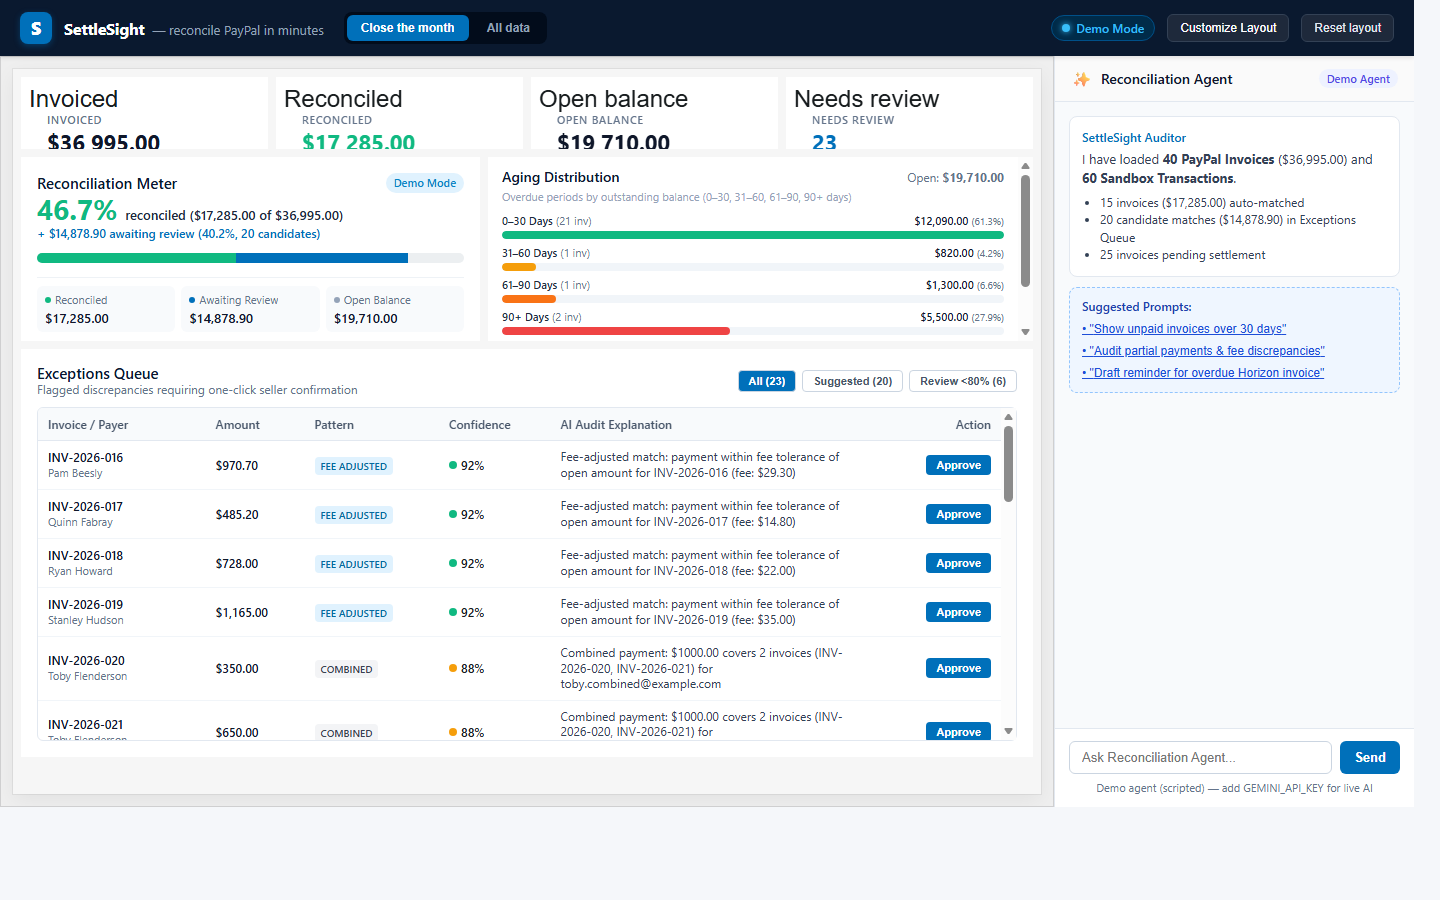
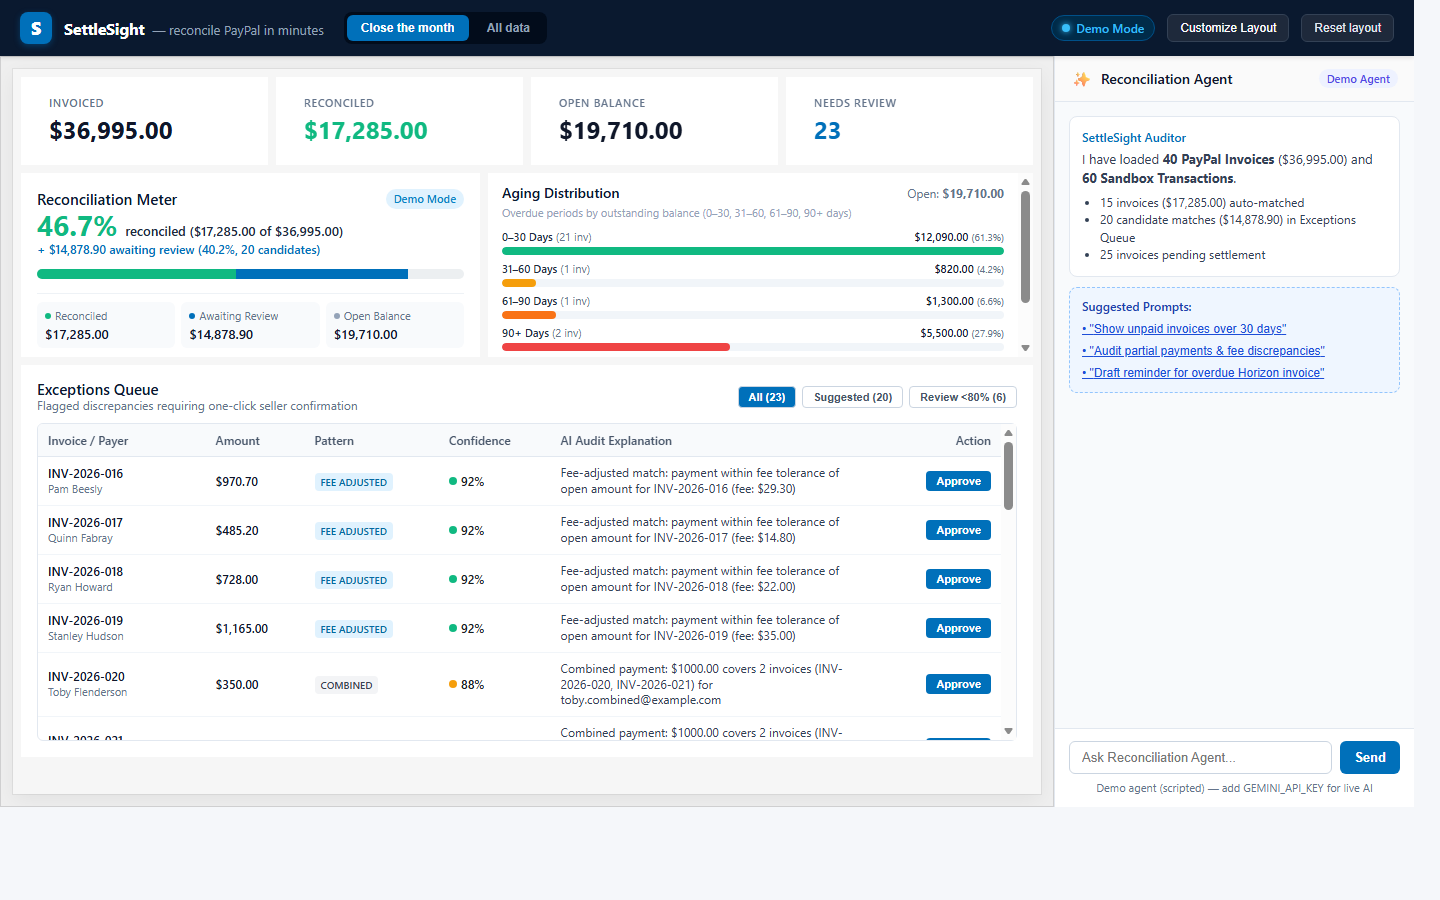
fix: KPI tile labels and overclaim wording

diff --git a/src/studio/dashboard.tsx b/src/studio/dashboard.tsx
@@ -98,6 +98,15 @@ export const StudioDashboard: React.FC<DashboardProps> = ({
         const cfg = KPI_CONFIGS[idx];
         if (!cfg) return;
 
+        // Hide any parent widget header (e.g. from AG Studio layout) to ensure only ONE label
+        const layoutWidget = widget.closest<HTMLElement>('.ag-studio-layout-widget');
+        const headerEl = layoutWidget?.querySelector<HTMLElement>(
+          '.ag-studio-layout-widget-header, .ag-studio-widget-header, [class*="layout-widget-header"]'
+        );
+        if (headerEl) {
+          headerEl.style.display = 'none';
+        }
+
         widget.setAttribute('data-kpi-id', cfg.id);
 
         let labelEl = widget.querySelector<HTMLElement>('.settlesight-kpi-label');
@@ -105,7 +114,7 @@ export const StudioDashboard: React.FC<DashboardProps> = ({
           labelEl = document.createElement('div');
           labelEl.className = 'settlesight-kpi-label';
           labelEl.style.cssText =
-            'font-size: 11px; font-weight: 600; color: #64748B; text-transform: uppercase; letter-spacing: 0.05em; margin-bottom: 4px; line-height: 1; user-select: none; font-family: system-ui, -apple-system, sans-serif;';
+            'font-size: 11px; font-weight: 600; color: #64748B; text-transform: uppercase; letter-spacing: 0.05em; margin-bottom: 6px; line-height: 1; user-select: none; font-family: system-ui, -apple-system, sans-serif;';
           widget.prepend(labelEl);
         }
         if (labelEl.textContent !== cfg.label) {
@@ -137,26 +146,46 @@ export const StudioDashboard: React.FC<DashboardProps> = ({
       }}
     >
       <style>{`
+        .ag-studio-layout-widget:has(.ag-studio-value-widget) .ag-studio-layout-widget-header,
+        .ag-studio-layout-widget:has(.ag-studio-value-widget) .ag-studio-widget-header,
+        .ag-studio-layout-widget:has(.ag-studio-value-widget) [class*="layout-widget-header"] {
+          display: none !important;
+          height: 0 !important;
+          max-height: 0 !important;
+          padding: 0 !important;
+          margin: 0 !important;
+          border: none !important;
+          overflow: hidden !important;
+        }
         .ag-studio-value-widget {
           display: flex !important;
           flex-direction: column !important;
           justify-content: center !important;
           align-items: flex-start !important;
-          padding: 12px 18px !important;
+          padding: 16px 20px !important;
           box-sizing: border-box !important;
+          height: 100% !important;
+          width: 100% !important;
+          overflow: visible !important;
         }
         .ag-studio-value-widget-content-container {
           width: auto !important;
           height: auto !important;
           position: static !important;
+          margin: 0 !important;
+          padding: 0 !important;
+          overflow: visible !important;
         }
         .ag-studio-value-widget-content {
           position: static !important;
-          font-size: 22px !important;
+          font-size: 24px !important;
           font-weight: 700 !important;
-          line-height: 1.2 !important;
+          line-height: 1.3 !important;
           font-variant-numeric: tabular-nums !important;
           font-family: system-ui, -apple-system, sans-serif !important;
+          margin: 0 !important;
+          padding: 0 !important;
+          overflow: visible !important;
         }
       `}</style>
       <AgStudio

diff --git a/src/studio/state.ts b/src/studio/state.ts
@@ -1,6 +1,6 @@
 import type { AgReportState } from 'ag-studio';
 
-export const STORAGE_KEY = 'settlesight_studio_layout_v3';
+export const STORAGE_KEY = 'settlesight_studio_layout_v4';
 
 export const DEFAULT_INITIAL_STATE: any = {
   pages: [
@@ -13,7 +13,7 @@ export const DEFAULT_INITIAL_STATE: any = {
             value: [{ id: 'invoices.amount', aggregation: 'sum' }],
           },
           format: {
-            title: { text: 'Invoiced', enabled: true },
+            title: { enabled: false },
           },
         },
         'widget-kpi-matched': {
@@ -22,7 +22,7 @@ export const DEFAULT_INITIAL_STATE: any = {
             value: [{ id: 'invoices.paid_amount', aggregation: 'sum' }],
           },
           format: {
-            title: { text: 'Reconciled', enabled: true },
+            title: { enabled: false },
           },
         },
         'widget-kpi-open': {
@@ -31,7 +31,7 @@ export const DEFAULT_INITIAL_STATE: any = {
             value: [{ id: 'invoices.open_amount', aggregation: 'sum' }],
           },
           format: {
-            title: { text: 'Open balance', enabled: true },
+            title: { enabled: false },
           },
         },
         'widget-kpi-exceptions': {
@@ -40,7 +40,7 @@ export const DEFAULT_INITIAL_STATE: any = {
             value: [{ id: 'review_items.id', aggregation: 'count' }],
           },
           format: {
-            title: { text: 'Needs review', enabled: true },
+            title: { enabled: false },
           },
         },
         'widget-meter': {
@@ -54,13 +54,13 @@ export const DEFAULT_INITIAL_STATE: any = {
         },
       },
       widgetLayout: {
-        'widget-kpi-invoiced': { xTrack: 0, yTrack: 0, xSpan: 6, ySpan: 5 },
-        'widget-kpi-matched': { xTrack: 6, yTrack: 0, xSpan: 6, ySpan: 5 },
-        'widget-kpi-open': { xTrack: 12, yTrack: 0, xSpan: 6, ySpan: 5 },
-        'widget-kpi-exceptions': { xTrack: 18, yTrack: 0, xSpan: 6, ySpan: 5 },
-        'widget-meter': { xTrack: 0, yTrack: 5, xSpan: 11, ySpan: 12 },
-        'widget-aging-chart': { xTrack: 11, yTrack: 5, xSpan: 13, ySpan: 12 },
-        'widget-exceptions': { xTrack: 0, yTrack: 17, xSpan: 24, ySpan: 26 },
+        'widget-kpi-invoiced': { xTrack: 0, yTrack: 0, xSpan: 6, ySpan: 6 },
+        'widget-kpi-matched': { xTrack: 6, yTrack: 0, xSpan: 6, ySpan: 6 },
+        'widget-kpi-open': { xTrack: 12, yTrack: 0, xSpan: 6, ySpan: 6 },
+        'widget-kpi-exceptions': { xTrack: 18, yTrack: 0, xSpan: 6, ySpan: 6 },
+        'widget-meter': { xTrack: 0, yTrack: 6, xSpan: 11, ySpan: 12 },
+        'widget-aging-chart': { xTrack: 11, yTrack: 6, xSpan: 13, ySpan: 12 },
+        'widget-exceptions': { xTrack: 0, yTrack: 18, xSpan: 24, ySpan: 25 },
       },
     },
     {

diff --git a/README.md b/README.md
@@ -75,7 +75,7 @@ SettleSight enforces strict separation between deterministic financial verificat
 1. **Ingest & Normalize:** PayPal Invoicing v2 records and Transaction Search feeds are normalized into integer cents (`src/match/normalize.js`).
 2. **Deterministic Matching:** Auto-matches clean transactions (exact invoice reference and equal gross amount) with confidence 1.0 (rule-based). Harder cases (fees, combined, partial, email match, refunds, duplicates) generate scored candidates (`src/match/rules.js`).
 3. **AI Explanations & Audit:** The Reconciliation Agent reviews ambiguous exceptions, calculates fee deductions against standard merchant tiers (~2.9% + $0.30), and drafts payment reminder emails (`src/agent/agent-definition.ts`).
-4. **Invariant Validation:** Every candidate match passes mathematical validation (`validateAllocation` in `src/match/validator.js`) ensuring non-over-allocation, currency alignment, and capacity guarantees.
+4. **Invariant Validation:** Every candidate match passes mathematical validation (`validateAllocation` in `src/match/validator.js`) ensuring non-over-allocation, currency alignment, and capacity checks.
 5. **Human Approval & Write-Back:** The seller reviews suggestions in the **Exceptions Queue** widget and confirms write-backs with an explicit click. The backend records payments on PayPal or dispatches reminders.
 
 ---
@@ -133,7 +133,7 @@ SettleSight showcases the capabilities of **AG Studio 3.0** (`ag-studio`, `ag-st
 2. **PayPal Brand Theme** ([`src/studio/theme.ts`](src/studio/theme.ts)):
    - Custom `paypalTheme` created using `studioTheme.withParams` with PayPal brand colors (`#0070BA` accent, clean light and dark palette tokens).
 3. **Saved Layout Persistence** ([`src/studio/state.ts`](src/studio/state.ts)):
-   - Dashboard layouts, open tabs, and custom widget placements persist automatically to browser `localStorage` (`settlesight_studio_layout_v3`) with full "Customize Layout" and "Reset layout" controls in the top shell.
+   - Dashboard layouts, open tabs, and custom widget placements persist automatically to browser `localStorage` (`settlesight_studio_layout_v4`) with full "Customize Layout" and "Reset layout" controls in the top shell.
 4. **Studio Agent Framework Integration**:
    - The Reconciliation Auditor agent runs directly inside the AG Studio agent architecture alongside Studio's built-in agents.
 

diff --git a/submission/devpost.md b/submission/devpost.md
@@ -65,7 +65,7 @@ SettleSight is built with modern, high-performance web and developer tools:
 - Thorough integration with PayPal Developer Platform: OAuth 2.0 client credentials with in-memory expiration caching, Invoicing v2 (`/v2/invoicing/invoices`, `/payments`, `/remind`), and Transaction Search v1 (`/v1/reporting/transactions`).
 - Handled real-world API nuances: PayPal restricts Transaction Search queries to $\le 31$ days, so we implemented `splitDateRangeIntoWindows` to seamlessly chunk multi-month searches.
 - Full Studio Agent Framework integration with custom tools, combined with a secure server-side LLM proxy and a deterministic fallback runner.
-- Mathematical invariant validation guaranteeing that financial data integrity cannot be violated.
+- Mathematical invariant validation rejecting any allocation that would over-allocate an invoice or transaction.
 - 57 automated tests verifying engine rules, API client methods, and security guards.
 
 ### 2. Design (20%)
@@ -131,7 +131,7 @@ In compliance with Section 4 of the official PayPal AI Hackathon rules:
 
 - How to integrate AG Studio's `createAiHarness` and `directLlmRunner` to build domain-specific AI agents that operate seamlessly inside embedded analytics dashboards.
 - Nuances of PayPal's Invoicing v2 and Transaction Search v1 REST APIs, including event code classification (`T1107` refunds vs `T0006` checkouts) and pagination handling.
-- The power of combining deterministic mathematical verification with generative AI explanation: AI provides conversational agility, while strict code invariants guarantee financial accuracy.
+- The power of combining deterministic mathematical verification with generative AI explanation: AI provides conversational agility, while strict code invariants enforce allocation rules.
 
 ---
 

diff --git a/docs/architecture.md b/docs/architecture.md
@@ -78,7 +78,7 @@ When multiple open invoices or transactions compete for the same candidate with 
 
 ---
 
-## 4. Invariant Validation Guarantees
+## 4. Invariant Validation Rules
 
 Before any allocation is approved or written to state, [`validateAllocation()`](../src/match/validator.js) enforces six mathematical invariants:
 
